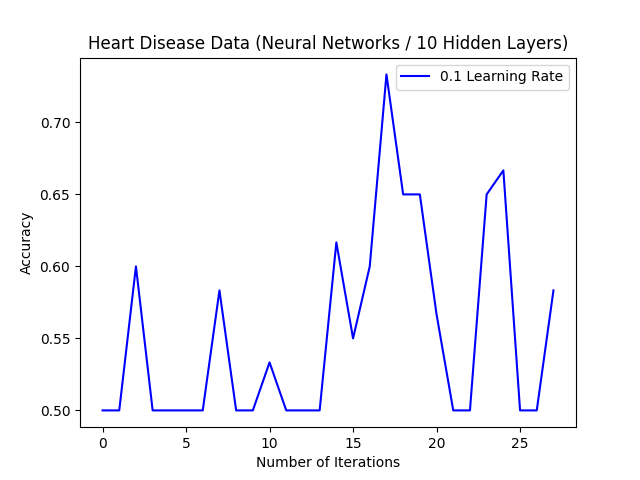
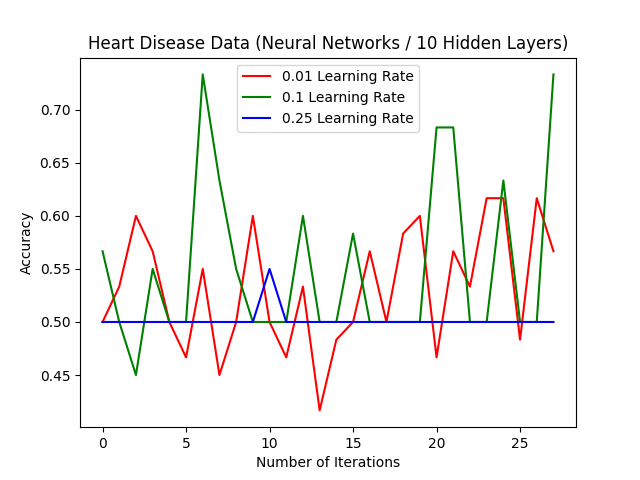
added multiple learning rates.

diff --git a/A1/neuralnetworks.py b/A1/neuralnetworks.py
@@ -53,7 +53,10 @@ def generate_plot(title, xlabel, ylabel, data, name):
     plt.xlabel(xlabel)
     plt.ylabel(ylabel)
     
-    plt.plot(data, 'b', label = "0.1 Learning Rate")
+    plt.plot(data[0], 'r', label = "0.01 Learning Rate")
+    plt.plot(data[1], 'g', label = "0.1 Learning Rate")
+    plt.plot(data[2], 'b', label = "0.25 Learning Rate")
+
     plt.legend()
     
     filename = name + ".png"
@@ -67,7 +70,7 @@ def main():
 
     hidden_layer_sizes = [5, 10, 50]
     max_iter = [1, 10, 20]
-    learning_rate_init = 0.1
+    learning_rates = [0.01, 0.1, 0.25]
 
     heart_networks_5 = []
     seeds_networks_5 = []
@@ -76,24 +79,26 @@ def main():
     heart_networks_50 = []
     seeds_networks_50 = []
 
-    for layer in hidden_layer_sizes:
-        heart_networks = []
-        seeds_networks = []
+    for rate in learning_rates:
 
-        for num_iter in max_iter:
-            for iteration in range(1, num_iter):
-                heart_networks.append(neural_networks(X_train_heart, X_test_heart, y_train_heart, y_test_heart, layer, iteration, learning_rate_init))
-                seeds_networks.append(neural_networks(X_train_seeds, X_test_seeds, y_train_seeds, y_test_seeds, layer, iteration, learning_rate_init))
+        for layer in hidden_layer_sizes:
+            heart_networks = []
+            seeds_networks = []
 
-        if layer == 5:
-            heart_networks_5 = heart_networks
-            seeds_networks_5 = seeds_networks
-        elif layer == 10:
-            heart_networks_10 = heart_networks
-            seeds_networks_10 = seeds_networks
-        elif layer == 50:
-            heart_networks_50 = heart_networks
-            seeds_networks_50 = seeds_networks
+            for num_iter in max_iter:
+                for iteration in range(1, num_iter):
+                    heart_networks.append(neural_networks(X_train_heart, X_test_heart, y_train_heart, y_test_heart, layer, iteration, rate))
+                    seeds_networks.append(neural_networks(X_train_seeds, X_test_seeds, y_train_seeds, y_test_seeds, layer, iteration, rate))
+
+            if layer == 5:
+                heart_networks_5.append(heart_networks)
+                seeds_networks_5.append(seeds_networks)
+            elif layer == 10:
+                heart_networks_10.append(heart_networks)
+                seeds_networks_10.append(seeds_networks)
+            elif layer == 50:
+                heart_networks_50.append(heart_networks)
+                seeds_networks_50.append(seeds_networks)
     
     generate_plot("Heart Disease Data (Neural Networks / 5 Hidden Layers)", "Number of Iterations", "Accuracy", heart_networks_5, "HeartNN5")
     generate_plot("Wheat Seeds Data (Neural Networks / 5 Hidden Layers)", "Number of Iterations", "Accuracy", seeds_networks_5, "SeedsNN5")
